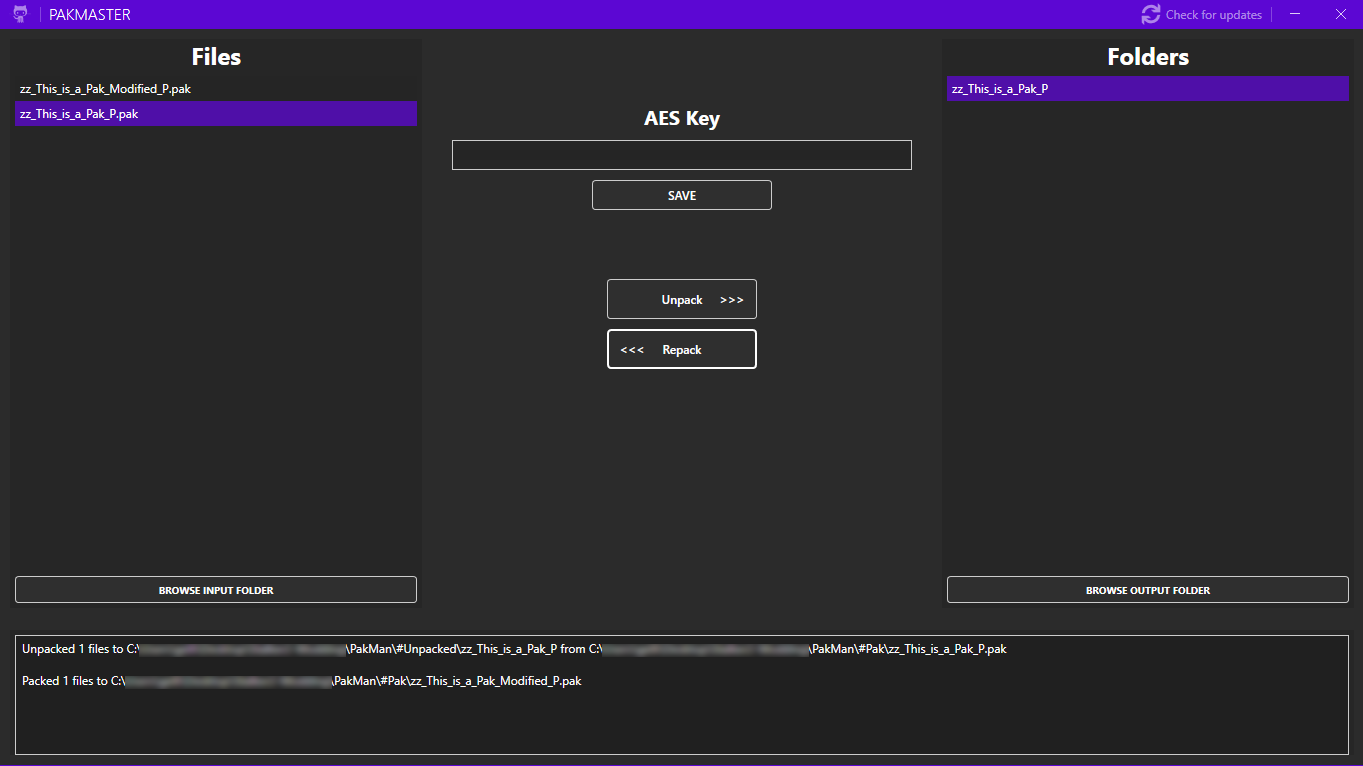
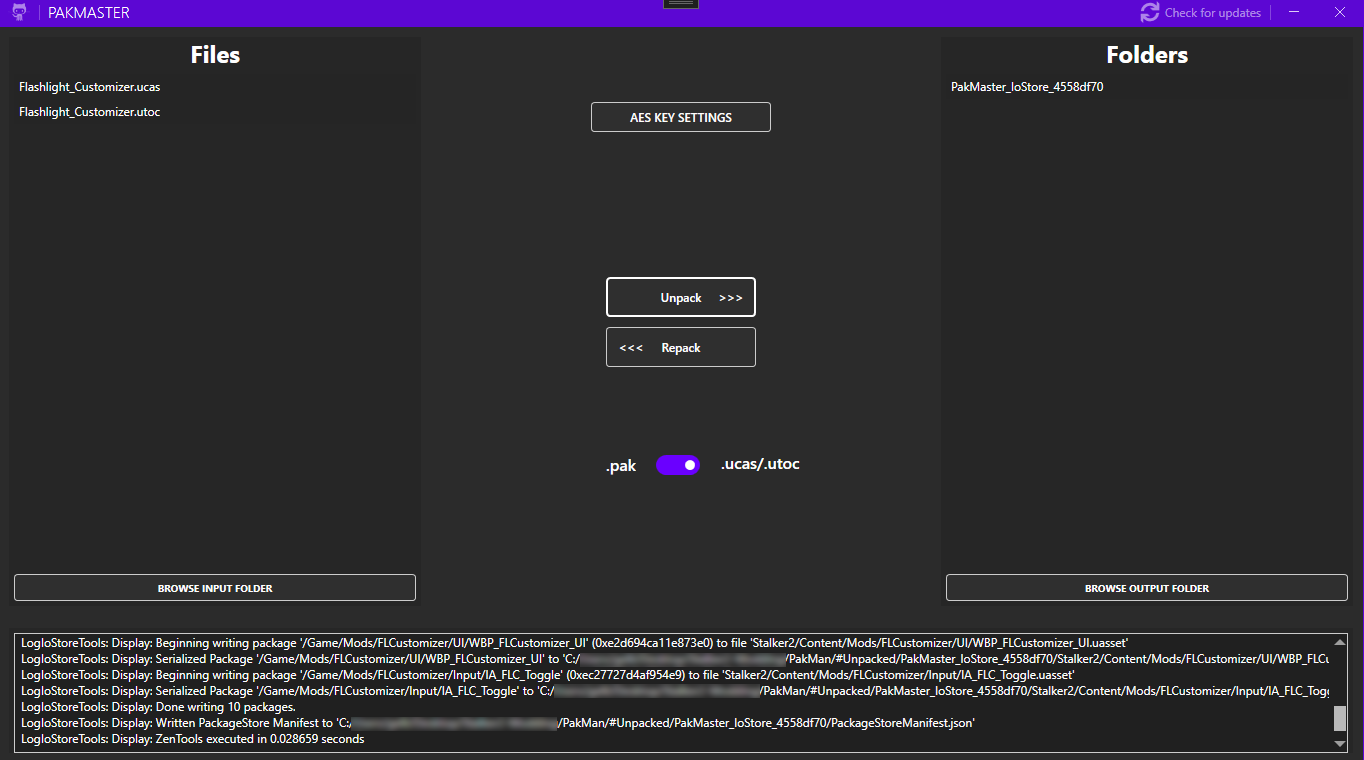
0.0.8
ZenTools integrated for unpacking, I had planned to use it for repacking until I realized that it's only for unpacking (lol).

So for now only partial IoStore Container support. (Unpacking)

Updated README.md to be consistent with the new changes.

diff --git a/src/MainWindow.xaml b/src/MainWindow.xaml
@@ -101,7 +101,6 @@
             </StackPanel>
 
             <!-- Repak/ZenTools Toggle -->
-            <!--
             <StackPanel Grid.Row="2" Orientation="Vertical" HorizontalAlignment="Center" VerticalAlignment="Center" Margin="5">
 
                 <Grid HorizontalAlignment="Center" VerticalAlignment="Center" Margin="5">
@@ -125,7 +124,6 @@
                     <TextBlock Text=".ucas/.utoc" Height="25" FontSize="16" FontWeight="SemiBold" Foreground="White" VerticalAlignment="Center" HorizontalAlignment="Left" Margin="15" Grid.Column="2" />
                 </Grid>
             </StackPanel>
-            -->
         </Grid>
 
         <!-- Output Section -->

diff --git a/src/MainWindow.xaml.cs b/src/MainWindow.xaml.cs
@@ -13,7 +13,7 @@ namespace PakMaster
     {
         private ConfigService _configService;
 
-        private bool isZenToolsFormat = false;
+        private bool isIoStoreMode = false;
         private string? inputFolderPath;
         private string? outputFolderPath;
 
@@ -46,18 +46,14 @@ namespace PakMaster
         {
             try
             {
-                // Load the Repak config (assuming it's a simple config)
                 var repakConfig = _configService.LoadRepakConfig<dynamic>();
                 string aesKey = repakConfig?.AesKey ?? string.Empty;
 
-                // Load the ZenTools config
-                var zentoolsConfig = _configService.LoadZenToolsConfig<Dictionary<string, string>>();
+                var zentoolsConfig = _configService.LoadZenToolsConfig();
 
-                // Extract the guid and aesKey from the ZenTools config
                 string zenToolsKeyGuid = zentoolsConfig?.Keys.FirstOrDefault() ?? string.Empty; // Guid stored as a key to ensure it's the first value
                 string zenToolsKeyHex = zentoolsConfig?.Values.FirstOrDefault() ?? string.Empty; // Hex stored as a regular value
 
-                // Update the UI
                 AesKeyTextBox.Text = aesKey;
                 ZenToolsKeyGuidTextBox.Text = zenToolsKeyGuid;
                 ZenToolsKeyHexTextBox.Text = zenToolsKeyHex;
@@ -159,7 +155,6 @@ namespace PakMaster
             });
         }
 
-
         // Start Repack with Repak (.pak)
         private async Task StartRepakRepackAsync()
         {
@@ -216,16 +211,78 @@ namespace PakMaster
         // Start Unpack with ZenTools (.ucas/.utoc)
         private async Task StartZenToolsUnpackAsync()
         {
-            MessageBox.Show("ZenTools unpacking is not yet supported.");
+            var zentoolsConfig = _configService.LoadZenToolsConfig();
+
+            if (zentoolsConfig == null || zentoolsConfig.Count == 0)
+            {
+                MessageBox.Show("ZenTools AES Key configuration is missing or empty.");
+                return;
+            }
+
+            string zenToolsKeyGuid = zentoolsConfig.Keys.FirstOrDefault() ?? string.Empty;
+            string zenToolsKeyHex = zentoolsConfig.Values.FirstOrDefault() ?? string.Empty;
+
+            if (string.IsNullOrEmpty(zenToolsKeyGuid) || string.IsNullOrEmpty(zenToolsKeyHex))
+            {
+                MessageBox.Show("ZenTools AES Key (GUID) not found in the config.\n\nThe GUID cannot be left blank.\n\nDefault GUID: 00000000-0000-0000-0000-000000000000");
+                return;
+            }
+            else
+            {
+                Debug.WriteLine($"[DEBUG]: ZenTools AES Key Found:\n[DEBUG]: GUID: {zenToolsKeyGuid}\n[DEBUG]: Hex: {zenToolsKeyHex}");
+            }
+
+            if (string.IsNullOrEmpty(inputFolderPath))
+            {
+                MessageBox.Show("Pleaase select an input folder.");
+            }
+
+            if (string.IsNullOrEmpty(outputFolderPath))
+            {
+                MessageBox.Show("Please select an output folder.");
+                return;
+            }
+
+            string inputPath = inputFolderPath;
+
+            string uniqueGuid = Guid.NewGuid().ToString("N").Substring(0, 8);
+            string outputPath = Path.Combine(outputFolderPath, $"PakMaster_IoStore_{uniqueGuid}");
+
+
+
+            string encryptionKeysPath = Path.Combine(AppDomain.CurrentDomain.BaseDirectory, "configs", "zentools-aeskey.json");
+            string arguments;
+
+            if (!string.IsNullOrEmpty(zenToolsKeyHex))
+            {
+                arguments = $"ExtractPackages \"{inputPath}\" \"{outputPath}\" -EncryptionKeys=\"{encryptionKeysPath}\" -ZenPackageVersion=Initial";
+            }
+            else
+            {
+                arguments = $"ExtractPackages \"{inputPath}\" \"{outputPath}\" -ZenPackageVersion=Initial";
+            }
+
+            await RunToolAsync("zentools", "zentools.exe", arguments, output =>
+            {
+                UpdateCommandOutput(output);
+                RepopulateInputListBox();
+                RepopulateOutputListBox();
+            });
         }
 
-        // Start Repack with ZenTools (.ucas/.utoc)
-        private async Task StartZenToolsRepackAsync()
+        /////////////////////////
+        // UNREALREZEN SECTION //
+        /////////////////////////
+
+        // Start Repack with UnrealReZen (.ucas/.utoc)
+        private async Task StartUnrealReZenRepackAsync()
         {
-            MessageBox.Show("ZenTools repacking is not yet supported.");
+            MessageBox.Show("IoStore file repacking is not supported yet.");
         }
 
-
+        ////////////////////////////
+        // FOLDER BROWSER SECTION //
+        ////////////////////////////
 
         // Browse input folder and populate InputFilesListBox
         private void BrowseInputFolder(object sender, RoutedEventArgs e)
@@ -244,24 +301,41 @@ namespace PakMaster
                 openFileDialog.InitialDirectory = inputFolderPath;
             }
 
+            if (isIoStoreMode)
+            {
+                openFileDialog.Filter = "IoStore Files (*.ucas, *.utoc)|*.ucas;*.utoc";
+            }
+            else
+            {
+                openFileDialog.Filter = "Pak Files (*.pak)|*.pak";
+            }
+
             if (openFileDialog.ShowDialog() == true)
             {
                 inputFolderPath = Path.GetDirectoryName(openFileDialog.FileName);
 
                 if (!string.IsNullOrEmpty(inputFolderPath))
                 {
-                    List<KeyValuePair<string, string>> files = Directory.GetFiles(inputFolderPath, "*.pak")
-                        .Select(filePath => new KeyValuePair<string, string>(Path.GetFileName(filePath), filePath))
-                        .ToList();
+                    List<KeyValuePair<string, string>> files;
+
+                    if (isIoStoreMode)
+                    {
+                        files = Directory.GetFiles(inputFolderPath, "*.ucas")
+                            .Concat(Directory.GetFiles(inputFolderPath, "*.utoc"))
+                            .Select(filePath => new KeyValuePair<string, string>(Path.GetFileName(filePath), filePath))
+                            .ToList();
+                    }
+                    else
+                    {
+                        files = Directory.GetFiles(inputFolderPath, "*.pak")
+                            .Select(filePath => new KeyValuePair<string, string>(Path.GetFileName(filePath), filePath))
+                            .ToList();
+                    }
 
                     InputFilesListBox.ItemsSource = files;
                 }
             }
         }
-
-        ////////////////////////////
-        // FOLDER BROWSER SECTION //
-        ////////////////////////////
 
         // Browse output folder and populate OutputFilesListBox
         private void BrowseOutputFolder(object sender, RoutedEventArgs e)
@@ -359,38 +433,28 @@ namespace PakMaster
         ///////////////////////
 
         // Toggle Switch Event Handler
-        /*
         private void ToggleSwitch_Toggled(object sender, RoutedEventArgs e)
         {
             if (FileTypeToggleSwitch.IsOn)
             {
                 // .ucas/.utoc format selected
-                isZenToolsFormat = true;
+                isIoStoreMode = true;
+                RepopulateInputListBox();
+                RepopulateOutputListBox();
             }
             else
             {
                 // .pak format selected
-                isZenToolsFormat = false;
+                isIoStoreMode = false;
+                RepopulateInputListBox();
+                RepopulateOutputListBox();
             }
         }
-        */
 
         // Event handlers for unpacking and repacking, checks if toggle is on or off
-        private async void btnRepack_Click(object sender, RoutedEventArgs e)
-        {
-            if (isZenToolsFormat)
-            {
-                await StartZenToolsRepackAsync();
-            }
-            else
-            {
-                await StartRepakRepackAsync();
-            }
-        }
-
         private async void btnUnpack_Click(object sender, RoutedEventArgs e)
         {
-            if (isZenToolsFormat)
+            if (isIoStoreMode)
             {
                 await StartZenToolsUnpackAsync();
             }
@@ -400,6 +464,17 @@ namespace PakMaster
             }
         }
 
+        private async void btnRepack_Click(object sender, RoutedEventArgs e)
+        {
+            if (isIoStoreMode)
+            {
+                await StartUnrealReZenRepackAsync();
+            }
+            else
+            {
+                await StartRepakRepackAsync();
+            }
+        }
 
         private void UpdateCommandOutput(string output)
         {
@@ -414,9 +489,21 @@ namespace PakMaster
         {
             if (!string.IsNullOrEmpty(inputFolderPath))
             {
-                List<KeyValuePair<string, string>> files = Directory.GetFiles(inputFolderPath, "*.pak")
-                    .Select(filePath => new KeyValuePair<string, string>(Path.GetFileName(filePath), filePath))
-                    .ToList();
+                List<KeyValuePair<string, string>> files = new List<KeyValuePair<string, string>>();
+
+                if (isIoStoreMode)
+                {
+                    files.AddRange(Directory.GetFiles(inputFolderPath, "*.ucas")
+                        .Select(filePath => new KeyValuePair<string, string>(Path.GetFileName(filePath), filePath)));
+
+                    files.AddRange(Directory.GetFiles(inputFolderPath, "*.utoc")
+                        .Select(filePath => new KeyValuePair<string, string>(Path.GetFileName(filePath), filePath)));
+                }
+                else
+                {
+                    files.AddRange(Directory.GetFiles(inputFolderPath, "*.pak")
+                        .Select(filePath => new KeyValuePair<string, string>(Path.GetFileName(filePath), filePath)));
+                }
 
                 InputFilesListBox.ItemsSource = files;
             }

diff --git a/src/Resources/Functions/Services/ConfigService.cs b/src/Resources/Functions/Services/ConfigService.cs
@@ -85,9 +85,9 @@ namespace PakMaster.Resources.Functions.Services
         }
 
         // Load ZenTools Config
-        public T LoadZenToolsConfig<T>() where T : new()
+        public Dictionary<string, string> LoadZenToolsConfig()
         {
-            return LoadConfig<T>(_zenToolsConfigFilePath);
+            return LoadConfig<Dictionary<string, string>>(_zenToolsConfigFilePath);
         }
 
         // Create Default ZenTools Config

diff --git a/README.md b/README.md
@@ -37,9 +37,11 @@ By using PakMaster, users must also adhere to the licenses of repak and ZenTools
 ## Features
 
 - **Pak File Operations**
-  - Ability to **pack** and **unpack** `.pak` files.
-  - Pack folders into a `.pak` file.
-  - Unpack the contents of a `.pak` file into a folder.[^1]
+  - **Unpack** the contents of a `.pak` file into a folder.[^1]
+  - **Pack** folders into a `.pak` file.
+
+- **IoStore File Unpacking**
+  - **Unpack** the contents of `.ucas` & `.utoc` files into a folder.
 
 - **AES Key Support**
   - Support for games that require an AES key to unpack files.
@@ -51,10 +53,11 @@ By using PakMaster, users must also adhere to the licenses of repak and ZenTools
 
 - **CLI Output Display**
   - Since PakMaster is reliant on CLI tools, their outputs are displayed in the GUI so users can troubleshoot issues if they arise.
+    - Please see [notes](#issues) about this.
 
 ## Planned Features
 
-- `.ucas` & `.utoc` support - Currently only `.pak` is supported.
+- `.ucas` & `.utoc` packing, likely via [UnrealReZen](https://github.com/rm-NoobInCoding/UnrealReZen) - Currently only unpacking is supported.
 
 - Ability to choose pak version, currently PakMaster is using V11, possible options are: `V0, V1, V2, V3, V4, V5, V6, V7, V8A, V8B, V9, V10, V11`
 
@@ -70,8 +73,18 @@ To get started with **PakMaster**, download the [Latest Release](https://github.
 2. Select your **input** (Packed) folder.
 3. Select your **output** (Unpacked) folder.
 
+#### AES Key
+Some games require an AES Key to unpack files, if you don't know how to find your AES Key, look into [AESDumpster](https://github.com/GHFear/AESDumpster). 
+
+If you don't require an AES Key you can ignore this section.
+
+To set your AES Key, open the AES Key Settings and set your key in the "Repak AES Key" section and in the "ZenTools AES Key" section, for ZenTools it requires a GUID:Hex format, some games you can just leave the GUID as zeros hence why PakMaster defaults to that, but the hex still needs to be set if the game requires an AES Key.
+
 #### Unpacking
-- Choose a `.pak` file from the **Input** list on the left and click **"Unpack"**.
+- **.pak**
+  - Choose a `.pak` file from the **Input** list on the left and click **"Unpack"**.
+- **.ucas/.utoc**
+  - Make sure you have an **Input** folder selected and click **Unpack**.[^2]
 
 #### Repacking
 - Select the folder you'd like to pack from the **Output** list on the right and click **"Repack"**.
@@ -97,8 +110,13 @@ To get started with **PakMaster**, download the [Latest Release](https://github.
 
 ## Notes
 
-- ZenTools is not implemented yet, this will likely come in v0.0.7 or at the very least in the next release version.
+- Packing IoStore Assets is not supported yet.
+
+## Issues
+If any issues do happen, PLEASE report them here first. It is very likely an issue on my part and if it is not I'll relay the information to the authors of the responsible dependency. Don't bother other authors about PakMaster as I am entirely responsible for it. If you are 100% sure that it's an issue with ZenTools or repak then you can create an issue on their repos, but if you are not sure about it always report it to me.
 
 #
 
 [^1]: From Repak's notes: UnrealPak includes a directory entry in the full directory index for all parent directories back to the pak root for a given file path regardless of whether those directories contain any files or just other directories. repak only includes directories that contain files. So far no functional differences have been observed as a result
+
+[^2]: If unpacking a mod or group of files only have that mod or group's files in the folder - this will unpack all IoStore assets in the folder that you selected. For example, have only ExampleMod.ucas/ExampleMod.utoc in the folder.
